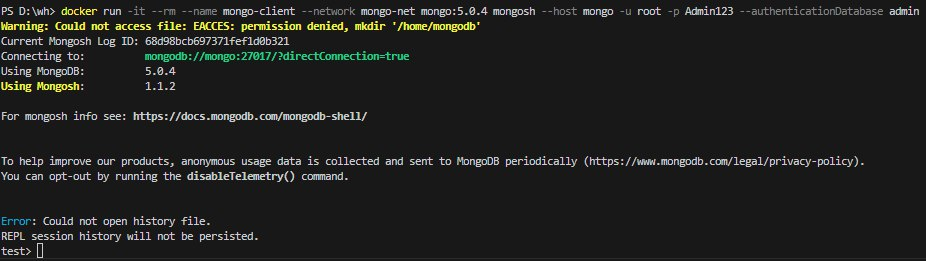
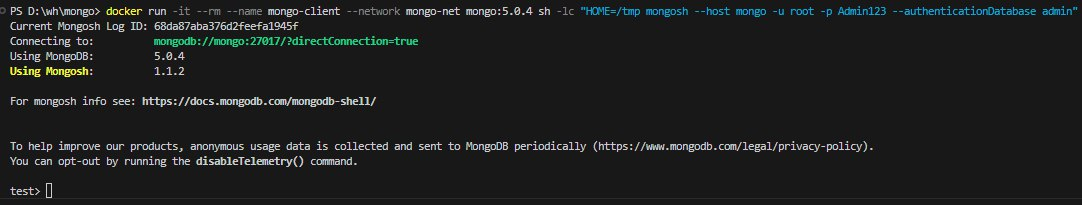
feat: hw_1

diff --git a/hw_1/README.md b/hw_1/README.md
@@ -35,8 +35,7 @@ docker ps
 
 ## Подключение
 ~~~powershell
-docker run -it --rm --name mongo-client --network mongo-net -e HOME=/tmp `
-  mongo:5.0.4 mongosh --host mongo -u root -p Admin123 --authenticationDatabase admin
+docker run -it --rm --name mongo-client --network mongo-net mongo:5.0.4 sh -lc "HOME=/tmp mongosh --host mongo -u root -p Admin123 --authenticationDatabase admin"
 ~~~
 ![Скрин](images/4.jpg)
 
